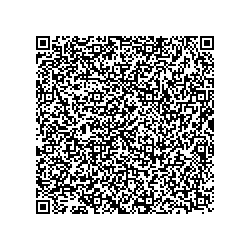
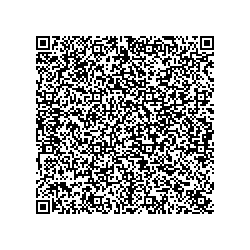
IS test added and datefixes

Changed region(s): [[0.14, 0.14, 0.868, 0.868]]

diff --git a/IS/README.md b/IS/README.md
@@ -14,3 +14,11 @@ The software used to produce the QR-codes can be found at https://github.com/ehn
 All tests should be successful.
 
 ![1](2Dcode/png/1.png)
+
+### 2
+
+[2.json](2DCode/raw/2.json) - Basic DGC with one test entry. 
+
+All tests should be successful.
+
+![2](2Dcode/png/2.png)
